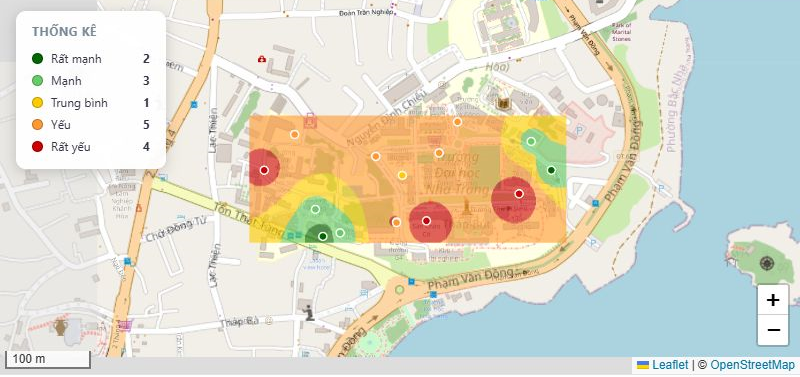
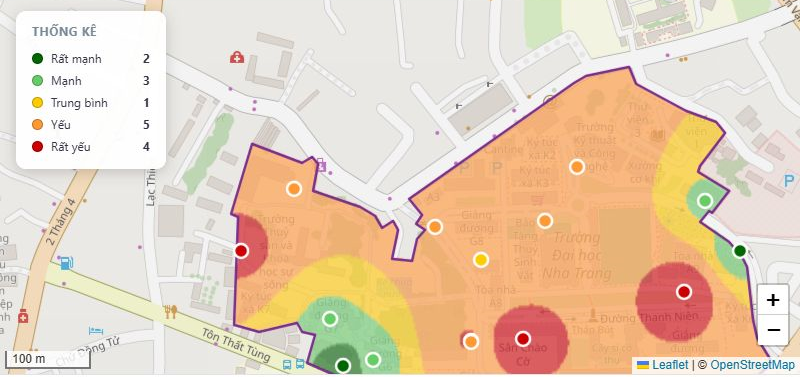
Cap nhat anh va README cho phan ranh gioi khuon vien

diff --git a/README.md b/README.md
@@ -32,7 +32,8 @@ Bản đồ nền lấy từ **OpenStreetMap**, dữ liệu là **15 điểm đo
 | Chức năng | Mô tả |
 |---|---|
 | **Bản đồ tương tác** | Zoom, kéo bản đồ, xem bản đồ nền OpenStreetMap |
-| **Vùng phủ sóng** | Nội suy IDW từ 15 điểm đo, hiển thị 5 mức màu liên tục |
+| **Ranh giới khuôn viên** | Vẽ polygon ranh giới trường (nguồn OpenStreetMap, 66 điểm) |
+| **Vùng phủ sóng** | Nội suy IDW từ 15 điểm đo, **cắt theo ranh giới khuôn viên**, hiển thị 5 mức màu |
 | **Điểm đo** | Hiển thị 15 điểm đo với màu theo cường độ tín hiệu |
 | **Popup thông tin** | Click vào điểm để xem tên, dBm, mức, tọa độ |
 | **Lọc dữ liệu** | Lọc theo tên điểm, theo mức tín hiệu, theo ngưỡng dBm |
@@ -48,7 +49,7 @@ Bản đồ nền lấy từ **OpenStreetMap**, dữ liệu là **15 điểm đo
 
 ![Bản đồ vùng phủ sóng](docs/demo-ban-do.png)
 
-*Vùng màu được nội suy bằng IDW từ 15 điểm đo. Màu xanh = tín hiệu mạnh, màu đỏ = tín hiệu yếu.*
+*Vùng màu được nội suy bằng IDW từ 15 điểm đo và **cắt theo ranh giới khuôn viên trường** (đường tím). Màu xanh = tín hiệu mạnh, màu đỏ = tín hiệu yếu.*
 
 ### Bảng thống kê
 
@@ -89,8 +90,11 @@ webgis-demo/
 │   └── style.css       # Toàn bộ giao diện
 ├── js/
 │   ├── data.js         # Dữ liệu 15 điểm đo + ngưỡng phân loại
+│   ├── ranhgioi.js     # Ranh giới khuôn viên trường (66 điểm, từ OpenStreetMap)
 │   ├── idw.js          # Thuật toán nội suy IDW
 │   └── map.js          # Khởi tạo bản đồ, vẽ, lọc, thống kê
+├── docs/
+│   └── demo-ban-do.png # Ảnh chụp màn hình
 ├── README.md
 └── LICENSE
 ```
@@ -100,8 +104,10 @@ webgis-demo/
 | File | Nội dung |
 |---|---|
 | `data.js` | Danh sách điểm đo (tên, vĩ độ, kinh độ, dBm) và bảng ngưỡng/màu |
+| `data.js` | Danh sách điểm đo (tên, vĩ độ, kinh độ, dBm) và bảng ngưỡng/màu |
+| `ranhgioi.js` | Mảng 66 tọa độ tạo thành polygon ranh giới khuôn viên trường |
 | `idw.js` | Hàm `tinhIdw()` — tính giá trị dBm cho từng ô lưới |
-| `map.js` | Tạo bản đồ, chú giải, vẽ vùng phủ, vẽ điểm, lọc, thống kê |
+| `map.js` | Tạo bản đồ, chú giải, vẽ ranh giới, vẽ vùng phủ (cắt theo ranh giới), vẽ điểm, lọc, thống kê |
 | `index.html` | Khung giao diện: thanh tiêu đề, thanh lọc, khung bản đồ |
 | `style.css` | Định dạng toàn bộ: màu sắc, bố cục, popup, chú giải |
 
